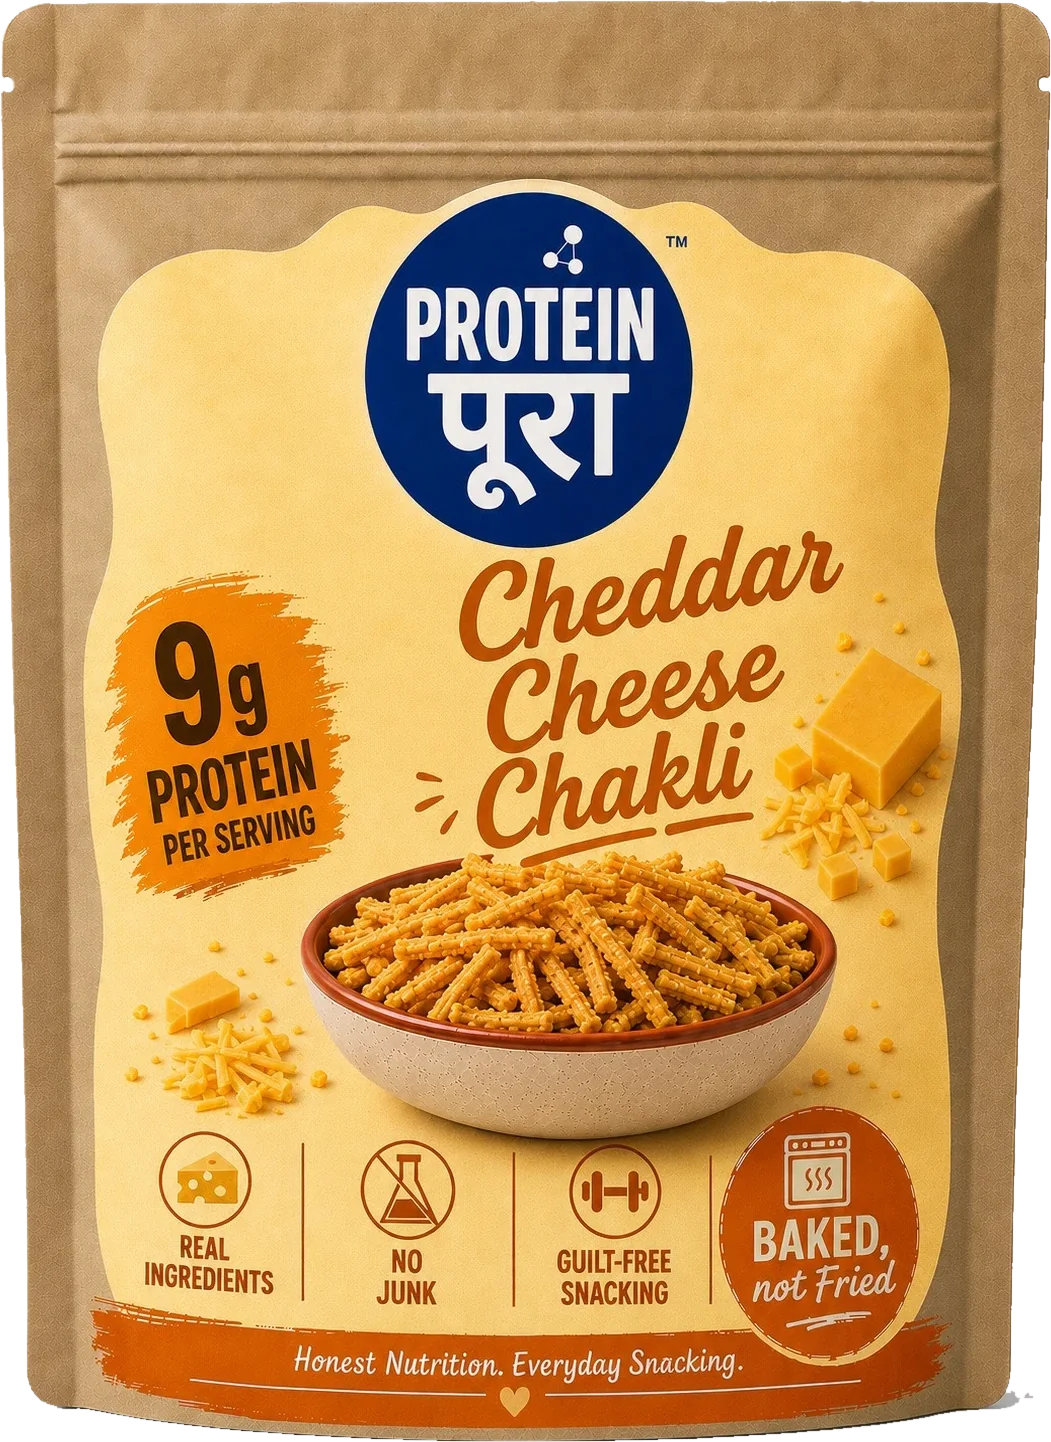
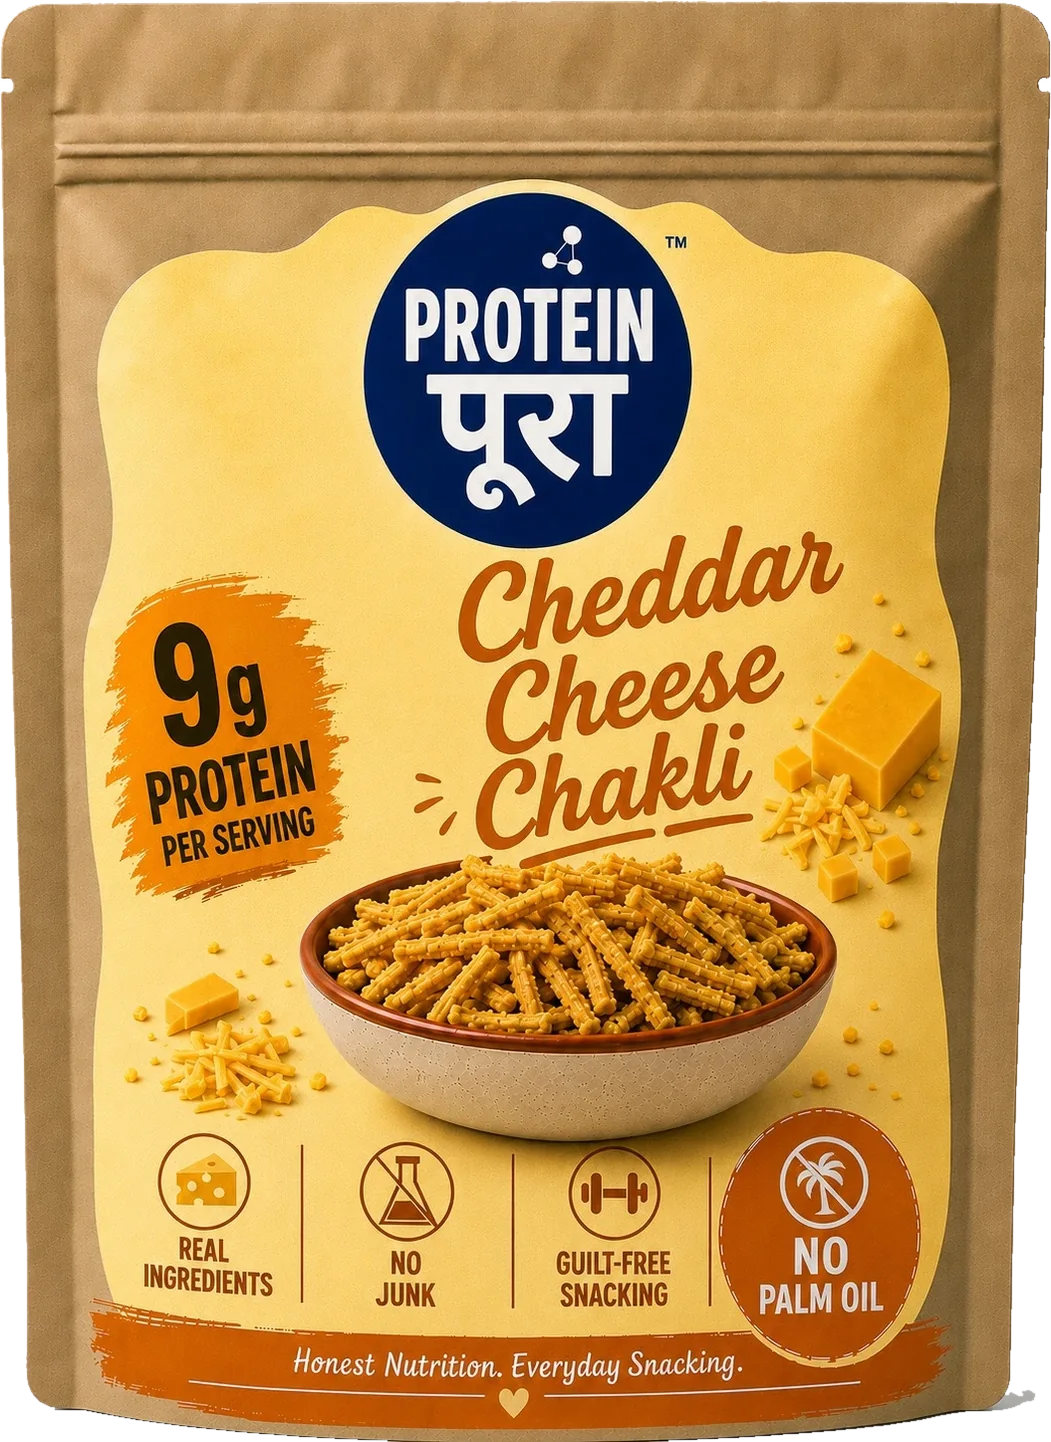
Update pack renders for peanuts and both chaklis
New artwork cut out and exported at the existing filenames and widths,
so every reference across the hero carousel, line-up cards and product
pages picks them up with no path changes. Korean BBQ Peanuts is 2px
taller after the crop, so its width/height attributes were updated in
both files to keep the reserved space exact.

The peanuts pack now reads "ROASTED, not Fried" rather than "BAKED, not
Fried", which resolves the mismatch flagged when that product went in.
Its line-up tag changed from "Baked, not fried" to "Roasted, not fried"
so the card no longer contradicts the photo directly above it; the other
four keep "Baked, not fried", which is accurate for them.

Sweet Chilli and Cheddar Cheese now carry a "NO PALM OIL" badge in place
of "BAKED, not Fried". Both are still baked, so their tags are unchanged.

Claude-Session: https://claude.ai/code/session_019NgiXkxjEFinVFvZNr6rq5

diff --git a/products/korean-bbq-peanuts/index.html b/products/korean-bbq-peanuts/index.html
@@ -21,7 +21,7 @@
         imagesrcset="/assets/img/korean-bbq-peanuts-pack-720.webp 720w, /assets/img/korean-bbq-peanuts-pack-1058.webp 1058w"
         imagesizes="(min-width: 900px) 480px, 100vw">
   <link rel="stylesheet" href="/assets/css/fonts.css?v=3">
-  <link rel="stylesheet" href="/assets/css/style.css?v=13">
+  <link rel="stylesheet" href="/assets/css/style.css?v=14">
   <script>document.documentElement.classList.replace('no-js', 'js');</script>
 </head>
 <body>
@@ -96,7 +96,7 @@
                      src="/assets/img/korean-bbq-peanuts-pack-720.webp"
                      srcset="/assets/img/korean-bbq-peanuts-pack-720.webp 720w, /assets/img/korean-bbq-peanuts-pack-1058.webp 1058w"
                      sizes="(min-width: 900px) 480px, 100vw"
-                     width="720" height="984"
+                     width="720" height="986"
                      alt="Korean BBQ Peanuts pack: a kraft pouch with an orange label, 18 g protein per serving, roasted."
                      data-kind="pack"
                      fetchpriority="high" decoding="async">
@@ -110,7 +110,7 @@
                         data-srcset="/assets/img/korean-bbq-peanuts-pack-720.webp 720w, /assets/img/korean-bbq-peanuts-pack-1058.webp 1058w"
                         data-large="/assets/img/korean-bbq-peanuts-pack-1058.webp"
                         data-alt="Korean BBQ Peanuts pack: a kraft pouch with an orange label, 18 g protein per serving, roasted.">
-                  <img src="/assets/img/korean-bbq-peanuts-pack-720.webp" width="720" height="984" alt="Pack front" loading="lazy" decoding="async">
+                  <img src="/assets/img/korean-bbq-peanuts-pack-720.webp" width="720" height="986" alt="Pack front" loading="lazy" decoding="async">
                 </button>
               </li>
               <li>
@@ -265,7 +265,7 @@
   </footer>
 
   <dialog class="lightbox" id="lightbox" aria-label="Product photo">
-    <img class="lightbox__img" src="/assets/img/korean-bbq-peanuts-pack-1058.webp" alt="Korean BBQ Peanuts pack" width="1058" height="1446">
+    <img class="lightbox__img" src="/assets/img/korean-bbq-peanuts-pack-1058.webp" alt="Korean BBQ Peanuts pack" width="1058" height="1449">
     <div class="lightbox__bar">
       <button class="lightbox__btn" type="button" data-prev aria-label="Previous photo">
         <svg viewBox="0 0 20 20" aria-hidden="true" focusable="false" fill="none" stroke="currentColor" stroke-width="2" stroke-linecap="round" stroke-linejoin="round"><path d="M12 4l-6 6 6 6"/></svg>
@@ -279,6 +279,6 @@
     </div>
   </dialog>
 
-  <script src="/assets/js/main.js?v=13" defer></script>
+  <script src="/assets/js/main.js?v=14" defer></script>
 </body>
 </html>

diff --git a/index.html b/index.html
@@ -21,7 +21,7 @@
         imagesrcset="/assets/img/masala-bhujia-pack-720.webp 720w, /assets/img/masala-bhujia-pack-1054.webp 1054w"
         imagesizes="(min-width: 1024px) 520px, (min-width: 600px) 420px, 72vw">
   <link rel="stylesheet" href="/assets/css/fonts.css?v=3">
-  <link rel="stylesheet" href="/assets/css/style.css?v=13">
+  <link rel="stylesheet" href="/assets/css/style.css?v=14">
   <script>document.documentElement.classList.replace('no-js', 'js');</script>
 </head>
 <body>
@@ -184,7 +184,7 @@
                            src="/assets/img/korean-bbq-peanuts-pack-720.webp"
                            srcset="/assets/img/korean-bbq-peanuts-pack-720.webp 720w, /assets/img/korean-bbq-peanuts-pack-1058.webp 1058w"
                            sizes="(min-width: 1024px) 360px, 72vw"
-                           width="720" height="984"
+                           width="720" height="986"
                            alt="Korean BBQ Peanuts pack: a kraft pouch with an orange label."
                            loading="lazy" decoding="async">
                     </div>
@@ -343,7 +343,7 @@
                 <img src="/assets/img/korean-bbq-peanuts-pack-720.webp"
                      srcset="/assets/img/korean-bbq-peanuts-pack-720.webp 720w, /assets/img/korean-bbq-peanuts-pack-1058.webp 1058w"
                      sizes="(min-width: 1024px) 340px, (min-width: 640px) 44vw, 88vw"
-                     width="720" height="984"
+                     width="720" height="986"
                      alt="Korean BBQ Peanuts pack: a kraft pouch with an orange label."
                      loading="lazy" decoding="async">
                 <span class="product-card__badge" aria-hidden="true"><b>18g</b><small>Per pack</small></span>
@@ -356,7 +356,7 @@
                 <div><dt>Calories</dt><dd>415</dd></div>
               </dl>
               <ul class="product-card__tags">
-                <li>Baked, not fried</li>
+                <li>Roasted, not fried</li>
                 <li>100% veg</li>
               </ul>
               <div class="product-card__buy">
@@ -398,6 +398,6 @@
     </div>
   </footer>
 
-  <script src="/assets/js/main.js?v=13" defer></script>
+  <script src="/assets/js/main.js?v=14" defer></script>
 </body>
 </html>

diff --git a/products/cheddar-cheese-chakli/index.html b/products/cheddar-cheese-chakli/index.html
@@ -21,7 +21,7 @@
         imagesrcset="/assets/img/cheddar-chakli-pack-720.webp 720w, /assets/img/cheddar-chakli-pack-1051.webp 1051w"
         imagesizes="(min-width: 900px) 480px, 100vw">
   <link rel="stylesheet" href="/assets/css/fonts.css?v=3">
-  <link rel="stylesheet" href="/assets/css/style.css?v=13">
+  <link rel="stylesheet" href="/assets/css/style.css?v=14">
   <script>document.documentElement.classList.replace('no-js', 'js');</script>
 </head>
 <body>
@@ -279,6 +279,6 @@
     </div>
   </dialog>
 
-  <script src="/assets/js/main.js?v=13" defer></script>
+  <script src="/assets/js/main.js?v=14" defer></script>
 </body>
 </html>

diff --git a/products/masala-bhujia/index.html b/products/masala-bhujia/index.html
@@ -21,7 +21,7 @@
         imagesrcset="/assets/img/masala-bhujia-pack-720.webp 720w, /assets/img/masala-bhujia-pack-1054.webp 1054w"
         imagesizes="(min-width: 1024px) 600px, 100vw">
   <link rel="stylesheet" href="/assets/css/fonts.css?v=3">
-  <link rel="stylesheet" href="/assets/css/style.css?v=13">
+  <link rel="stylesheet" href="/assets/css/style.css?v=14">
   <script>document.documentElement.classList.replace('no-js', 'js');</script>
 </head>
 <body>
@@ -271,6 +271,6 @@
     </div>
   </dialog>
 
-  <script src="/assets/js/main.js?v=13" defer></script>
+  <script src="/assets/js/main.js?v=14" defer></script>
 </body>
 </html>

diff --git a/products/pudina-bhujia/index.html b/products/pudina-bhujia/index.html
@@ -21,7 +21,7 @@
         imagesrcset="/assets/img/pudina-bhujia-pack-720.webp 720w, /assets/img/pudina-bhujia-pack-1066.webp 1066w"
         imagesizes="(min-width: 900px) 480px, 100vw">
   <link rel="stylesheet" href="/assets/css/fonts.css?v=3">
-  <link rel="stylesheet" href="/assets/css/style.css?v=13">
+  <link rel="stylesheet" href="/assets/css/style.css?v=14">
   <script>document.documentElement.classList.replace('no-js', 'js');</script>
 </head>
 <body>
@@ -218,6 +218,6 @@
     </div>
   </dialog>
 
-  <script src="/assets/js/main.js?v=13" defer></script>
+  <script src="/assets/js/main.js?v=14" defer></script>
 </body>
 </html>

diff --git a/products/sweet-chilli-chakli/index.html b/products/sweet-chilli-chakli/index.html
@@ -21,7 +21,7 @@
         imagesrcset="/assets/img/chakli-pack-720.webp 720w, /assets/img/chakli-pack-1050.webp 1050w"
         imagesizes="(min-width: 900px) 480px, 100vw">
   <link rel="stylesheet" href="/assets/css/fonts.css?v=3">
-  <link rel="stylesheet" href="/assets/css/style.css?v=13">
+  <link rel="stylesheet" href="/assets/css/style.css?v=14">
   <script>document.documentElement.classList.replace('no-js', 'js');</script>
 </head>
 <body>
@@ -278,6 +278,6 @@
     </div>
   </dialog>
 
-  <script src="/assets/js/main.js?v=13" defer></script>
+  <script src="/assets/js/main.js?v=14" defer></script>
 </body>
 </html>
